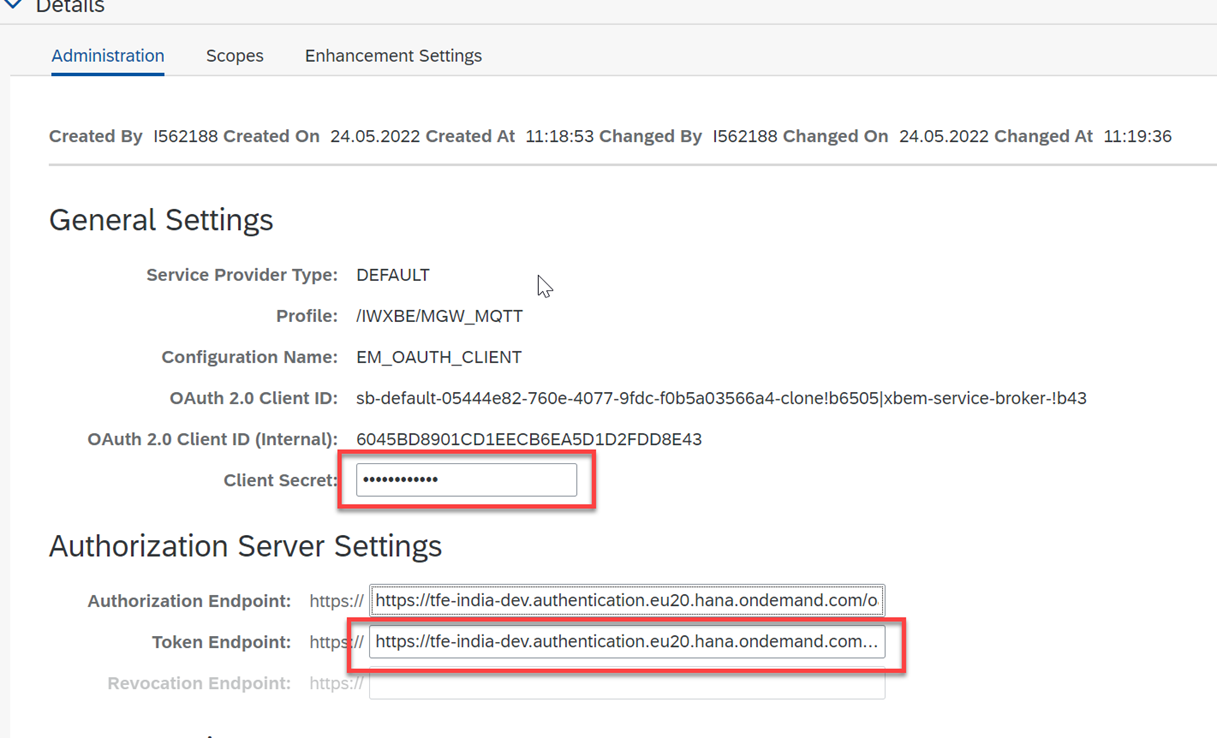
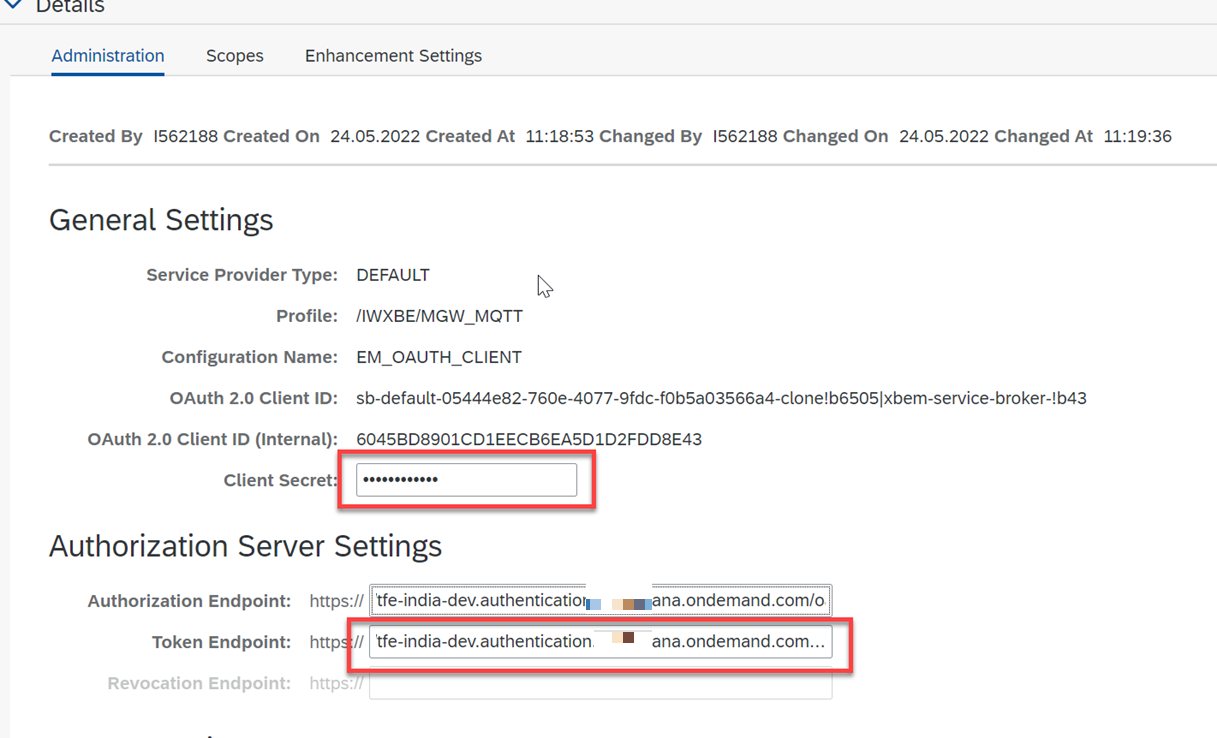
Added s4hana screenshot

Changed region(s): [[0.3122, 0.7791, 0.7494, 0.935]]

diff --git a/tutorial/Step3-Configure-SAP-S4HANA/README.md b/tutorial/Step3-Configure-SAP-S4HANA/README.md
@@ -33,7 +33,7 @@ In this step, you will create a flexible workflow, which will send a request(Wor
 ![Step type Approval](images/s4/6.png)
 
 8. Go to the **Recipients** section, select the dropdown value **User** for **Assignment By**, and provide the user id in the **User** field. <br> 
-Please Note: This user id needs to have the email address created in Azure AD. Go to user administrator in SAP S/4HANA and update the user's email address.
+Please Note: This user id needs to have the same email address of the test user that is created in Azure AD. Go to user administrator in SAP S/4HANA and update the user's email address.
 ![User Assignment](./images/s4/7.png)
     >Note: In this step, you will select which user the workflow should go to for approval.
 
@@ -120,7 +120,7 @@ In this sub-step, you will configure the OAuth client, which will be used by the
 29. Select the drop down value **/IWXBE/MGW_MQTT** in the field **OAuth 2.0 Client Profile**, enter a unique name in the **Configuration Name** and **OAuth 2.0 Client ID** value from **Step 21** : **Clientid**.<br>
 ![OAuth Client Details](./images/s4/23.png)
 
-30. Scroll down and enter **clientsecret** and **tokenendpoint** from **Step 21**.<br>
+30. Scroll down and enter **clientsecret** and **tokenendpoint** from **Step 21** and enter the value of **tokenendpoint** in "Authorization endpoint" field as well.<br>
 ![Additiona details](./images/s4/24.png)
 
 31. Select the radio buttons **Form Fields**, **Header Field** and **Client Credentials** as shown in the screenshot.<br>
@@ -139,7 +139,7 @@ Use the below git URL (ABAP branch) to import the ABAP Class and Report, which c
 34. Click **New Online** button to import the repository.<br>
 ![Import Repo](./images/s4/28.png)
 
-35. Enter the repository url, package & branch as **abap** and click **Create Online Repo** to import the repository.<br>
+35. Enter the repository url(https://github.com/SAP-samples/btp-msteams-extend-workflow/), package & branch as **abap** and click **Create Online Repo** to import the repository.<br>
 ![Repo details](./images/s4/29.png)
 
 36. Select **Clone Online Repo** and click **pull** to save the repo to your SAP S/4HANA system.<br>
@@ -159,8 +159,22 @@ Now that you have imported the code to push the workitems to the Event Mesh. Let
 
 40. After the execution of the method: **GET_DELTA_WORKFLOW_INSTANCES**, the method: **CONNECT_TO_EM** will create the HTTP connection instance to the Event Mesh, which is well explained using the comments in the code.<br>
 ![Execution](./images/s4/36.png)
-You will also maintain the URI for the Event mesh in the **CONNECT_TO_EM** method as shown below:<br>
+You will also maintain the URI for the Event mesh in the **CONNECT_TO_EM** method as expained below:<br>
+
+In case of the SAP BTP trial account with SAP Event Mesh default plan, then 
+the URI value should be entered as 'URI value that should be used is '/messagingrest/v1/queues/PRApproval/messages'.
+
+In case of the SAP BTP enterprise account with SAP Event Mesh standard plan, if the namespace is "orgname/s4/t1" for your SAP Event Mesh instance and queue name is "PRApproval"(the queue name should be same as the one that you have entered in [### 2.Setup SAP Event Mesh](../Step1-Configure-SAP-BTP/README.md) step, then 
+
+URI - '/messagingrest/v1/queues/<encoded fully qualified queue name>/messages'
+Fully qualified queue name - orgname/s4/t1/PRApproval
+Encoded FQQN - orgname%2Fs4%2Ft1%2FPRApproval
+
+URI value that should be used is '/messagingrest/v1/queues/orgname%2Fs4%2Ft1%2FPRApproval/messages'
+
 ![Execution](./images/s4/52.png)
+
+Save and activate the object before proceeding.
 
 41. Then the **SEND_WORKITEM_TO_EM** method will send the Purchase Requisition workitem to the Event Mesh.<br>
 ![Constructor](./images/s4/35.png)
@@ -220,5 +234,10 @@ Let's create a new purchase requisition and go to SAP Event Mesh to see the mess
 
 57. Click on **Consume** to see the message.<br>
 ![Consume](./images/s4/51.png)
+
+### Activate the service API_PURCHASEREQ_PROCESS_SRV
+
+58. Add the service API_PURCHASEREQ_PROCESS_SRV with the /n/IWFND/MAINT_SERVICE transaction.<br>
+![Activate](./images/s4/53.png)
 
 Congratulations!! Now you have completed the creation of the new Flexible workflow for the purchase requisition, configured the background job to send the workitems to SAP Event Mesh, and tested it successfully.
